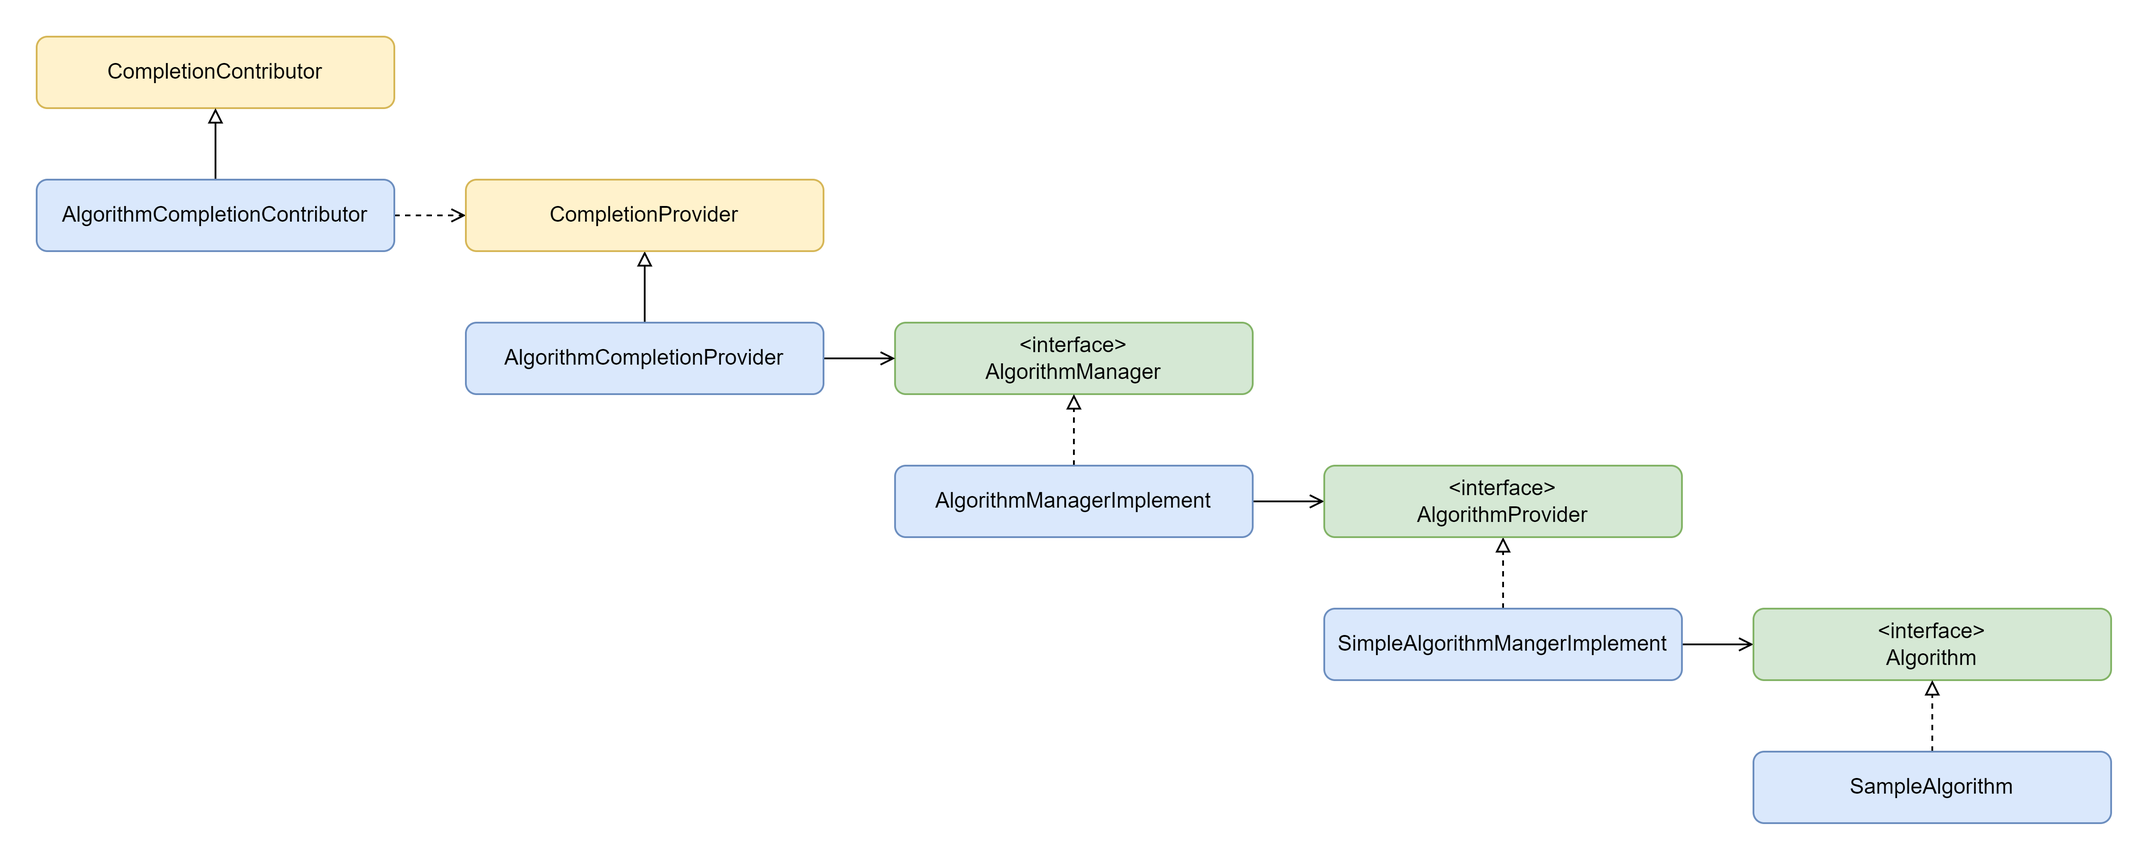
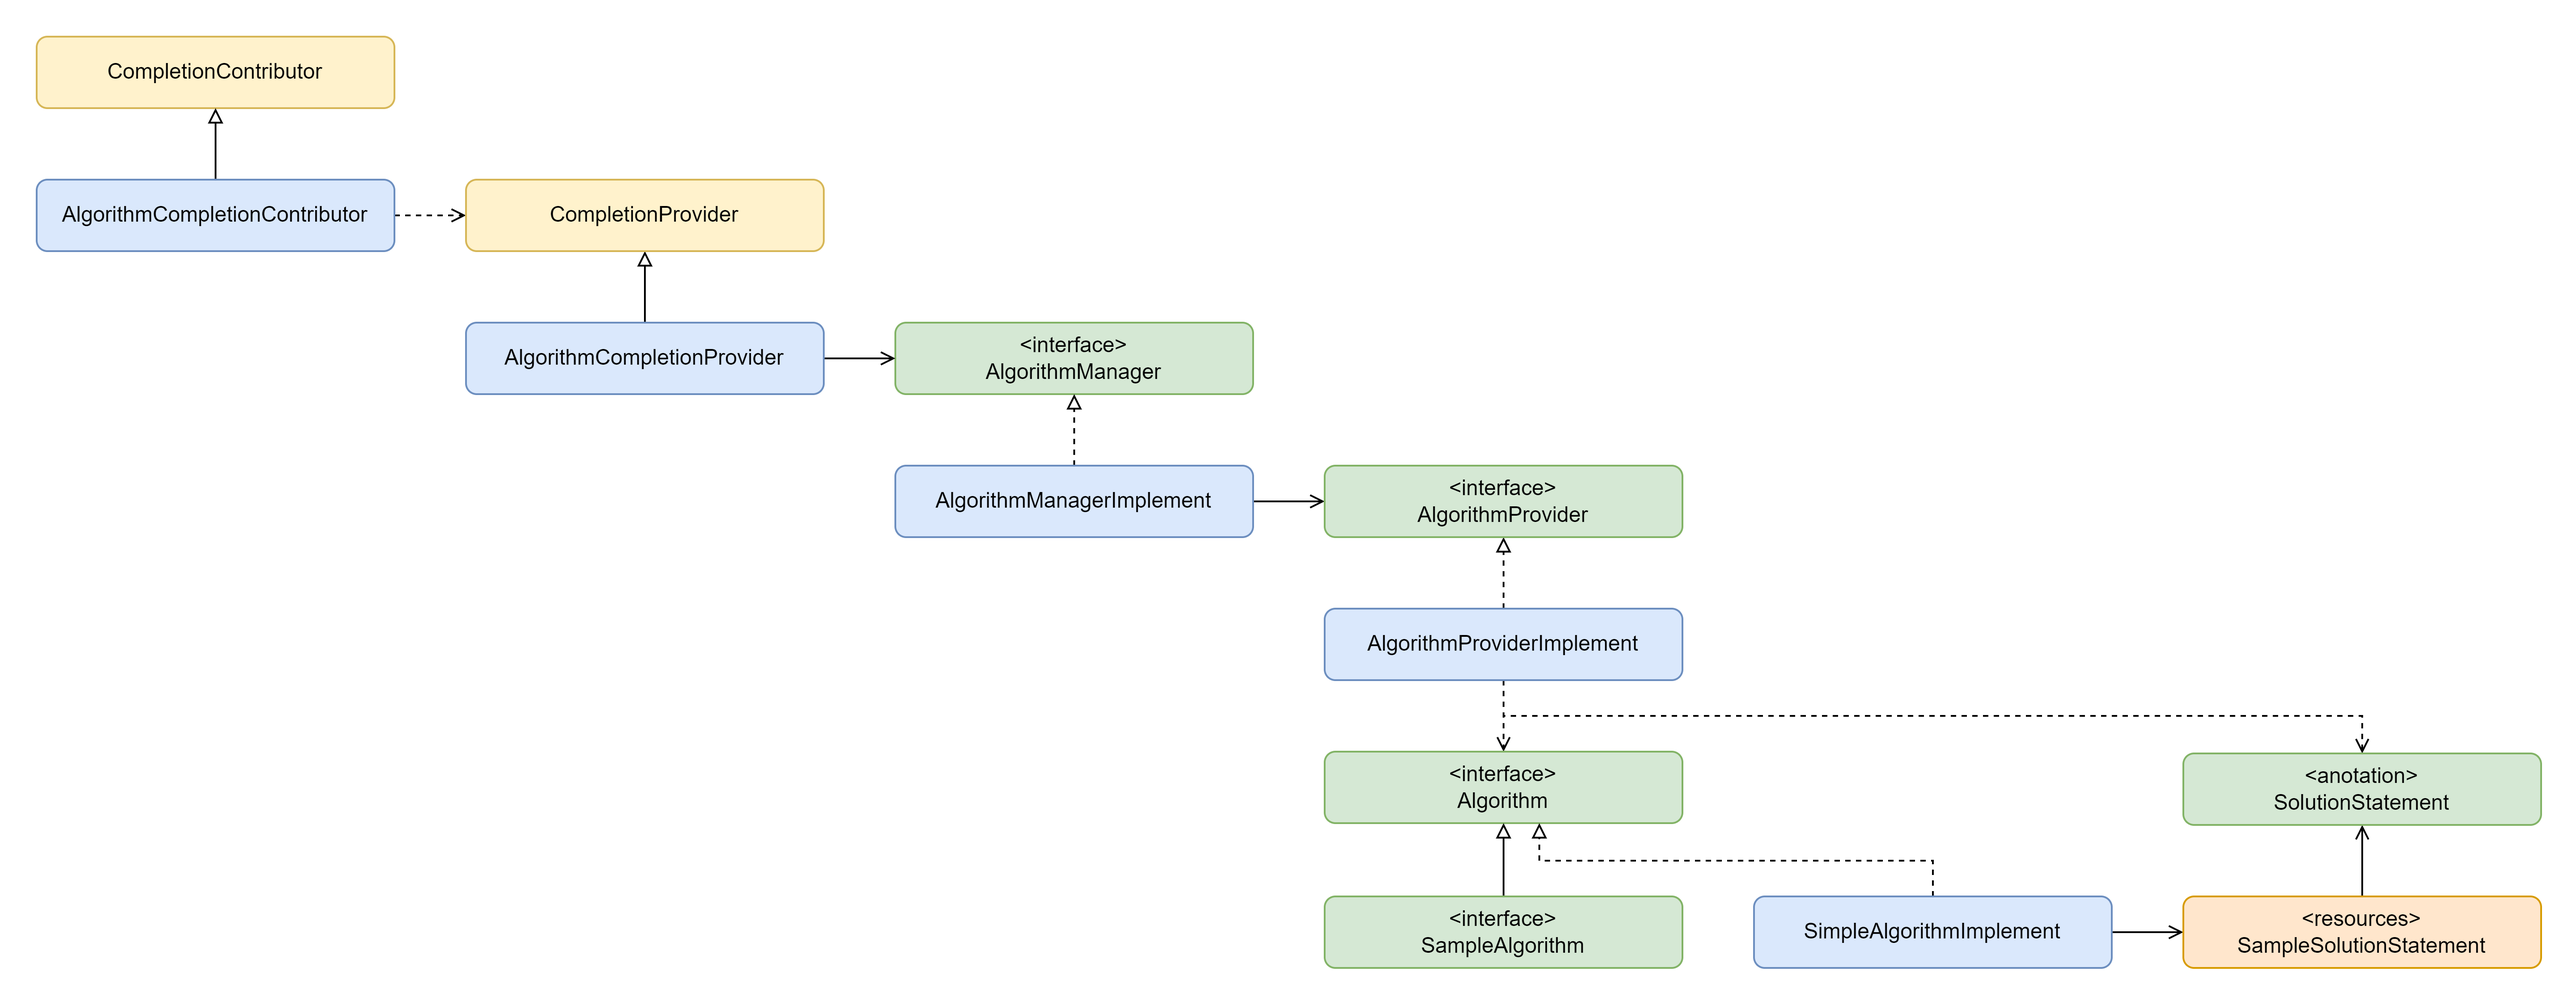
SimpleAlgorithmImplement 적용 완료

Changed region(s): [[0.0, 0.0312, 1.0, 0.8438], [0.5, 0.875, 1.0, 0.9688]]

diff --git a/src/main/java/org/standardsolvers/pscodesnippets/core/AlgorithmProviderImplement.java b/src/main/java/org/standardsolvers/pscodesnippets/core/AlgorithmProviderImplement.java
@@ -13,8 +13,8 @@ import java.net.URL;
 import java.util.*;
 
 public class AlgorithmProviderImplement implements AlgorithmProvider{
-    static Map<String, Class<? extends Algorithm>> algorithmClassMap;
-    static Map<Class<? extends Algorithm>, Class<?>> solutionStatementClassMap;
+    Map<String, Class<? extends Algorithm>> algorithmClassMap;
+    Map<String, Class<?>> solutionStatementClassMap;
 
     public AlgorithmProviderImplement(){
         initAlgorithmClassMap();
@@ -33,6 +33,7 @@ public class AlgorithmProviderImplement implements AlgorithmProvider{
 
     @Override
     public AlgorithmProviderImplement initSolutionStatementClassMap(){
+        solutionStatementClassMap = new HashMap<>();
         if(algorithmClassMap.isEmpty()){
             initAlgorithmClassMap();
         }
@@ -43,7 +44,7 @@ public class AlgorithmProviderImplement implements AlgorithmProvider{
                     .filter(clazz->clazz.getAnnotation(SolutionStatement.class).algorithm().equals(algorithmClass))
                     .findFirst().orElse( null);
             if(solutionStatementClass == null) continue;
-            solutionStatementClassMap.put(algorithmClass, solutionStatementClass);
+            solutionStatementClassMap.put(algorithmClass.getName(), solutionStatementClass);
         }
         return this;
     }
@@ -76,7 +77,7 @@ public class AlgorithmProviderImplement implements AlgorithmProvider{
     public Optional<Algorithm> constructAlgorithm(Class<? extends Algorithm> algorithmClass){
 
         try{
-            Class<?> statementClass = solutionStatementClassMap.get(algorithmClass);
+            Class<?> statementClass = solutionStatementClassMap.get(algorithmClass.getName());
             Algorithm algorithm = new SimpleAlgorithmImplement(statementClass);
             return Optional.of(algorithm);
 

diff --git a/src/main/java/org/standardsolvers/pscodesnippets/solution/SimpleAlgorithmImplement.java b/src/main/java/org/standardsolvers/pscodesnippets/solution/SimpleAlgorithmImplement.java
@@ -1,7 +1,5 @@
 package org.standardsolvers.pscodesnippets.solution;
 
-import org.standardsolvers.pscodesnippets.solution.Algorithm;
-
 import java.io.*;
 import java.nio.charset.StandardCharsets;
 import java.util.stream.Collectors;
@@ -27,8 +25,17 @@ public class SimpleAlgorithmImplement<T> implements Algorithm<T>{
 
         if (input == null) {
             return "";
-        } try (BufferedReader reader = new BufferedReader(new InputStreamReader(input, StandardCharsets.UTF_8))) {
-            return reader.lines().collect(Collectors.joining("\n"));
+        }
+        try (BufferedReader reader = new BufferedReader(new InputStreamReader(input, StandardCharsets.UTF_8))) {
+            String content = reader.lines().collect(Collectors.joining("\n"));
+            int start = content.indexOf("{") + 1;
+            int end = content.lastIndexOf("}");
+            // check if the indexes are valid
+            if (start >= 0 && end >= 0 && start < end){
+                return content.substring(start, end).trim();
+            } else{
+                return "";
+            }
         } catch (IOException ignored) {
             return "";
         }
